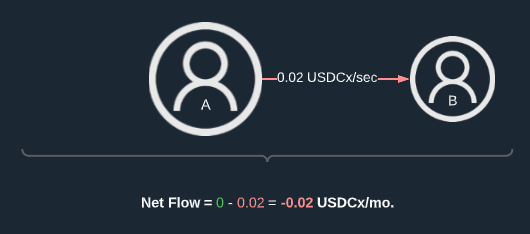
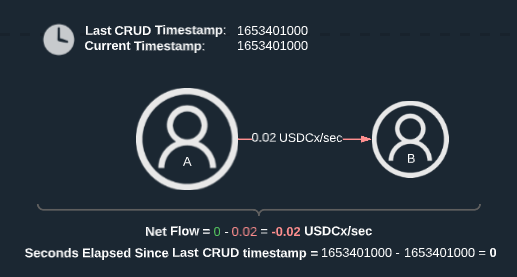
GitBook: [#263] No subject

diff --git a/protocol-overview/in-depth-overview/super-agreements/constant-flow-agreement-cfa.md b/protocol-overview/in-depth-overview/super-agreements/constant-flow-agreement-cfa.md
@@ -74,9 +74,7 @@ Current Balance = 1000 USDCx + -10 USDCx = <mark style="color:green;">**990 USDC
 
 #### **2. On the 1000th second, Account A increases the flow rate to Account B to 0.02 USDCx/second. The CFA contract records new status.**
 
-![](<../../../.gitbook/assets/image (66).png>)
-
-Latest CRUD timestamp = 165340**1**000 ( recorded to CFA contract )
+![](<../../../.gitbook/assets/image (60).png>)
 
 Current timestamp = 165340**1**000
 
@@ -88,7 +86,7 @@ Current Balance = 990 USDCx + 0 USDCx = **990 USDCx**
 
 #### **3. **_****_** Another 2000 seconds elapse**
 
-![](<../../../.gitbook/assets/image (32).png>)
+![](<../../../.gitbook/assets/image (59).png>)
 
 Latest CRUD timestamp = 165340**1**000
 
